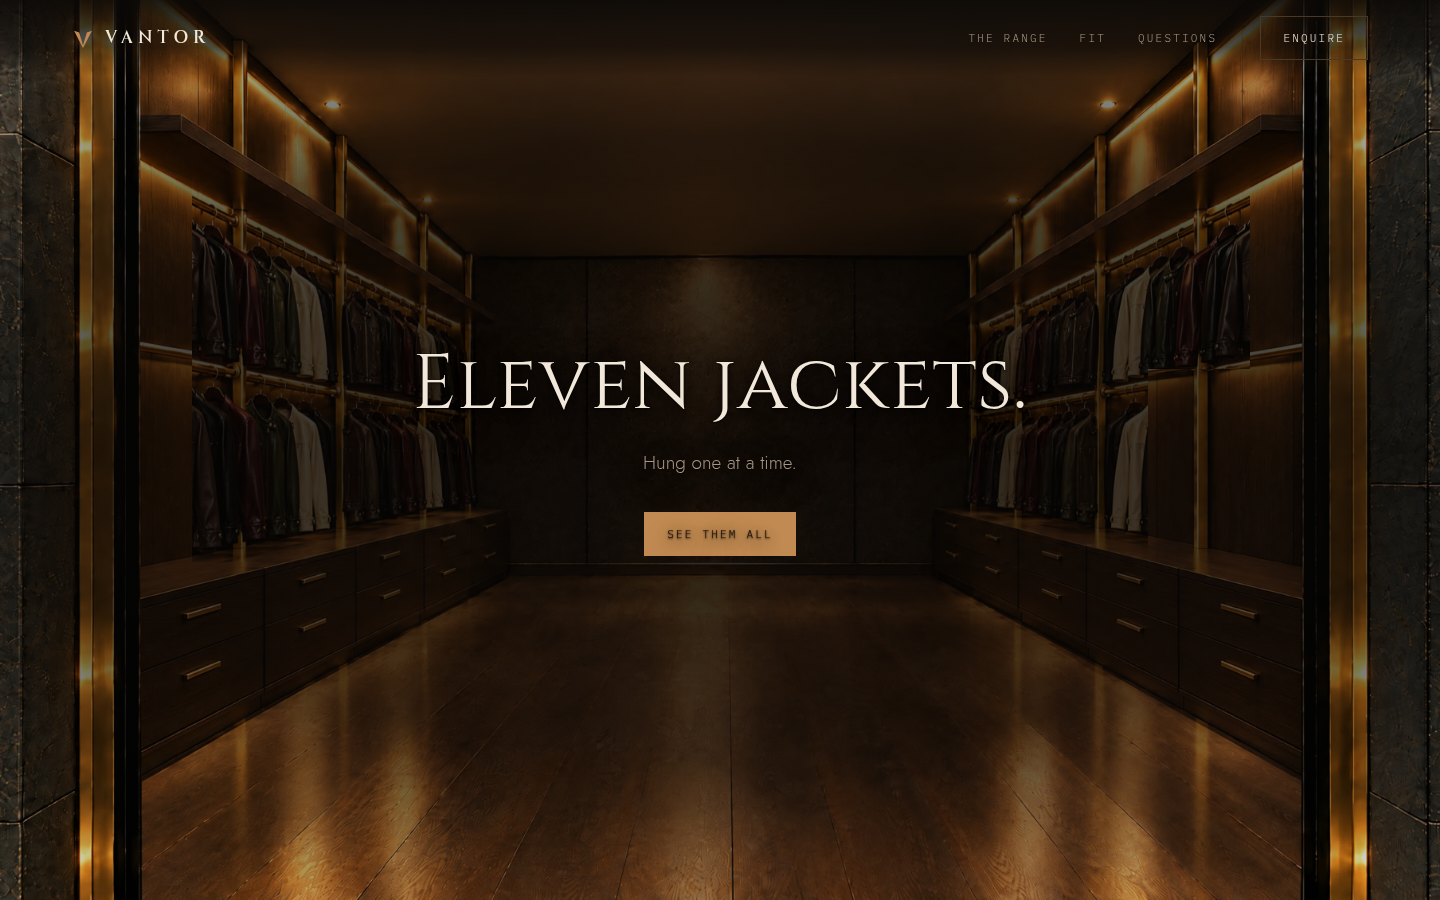
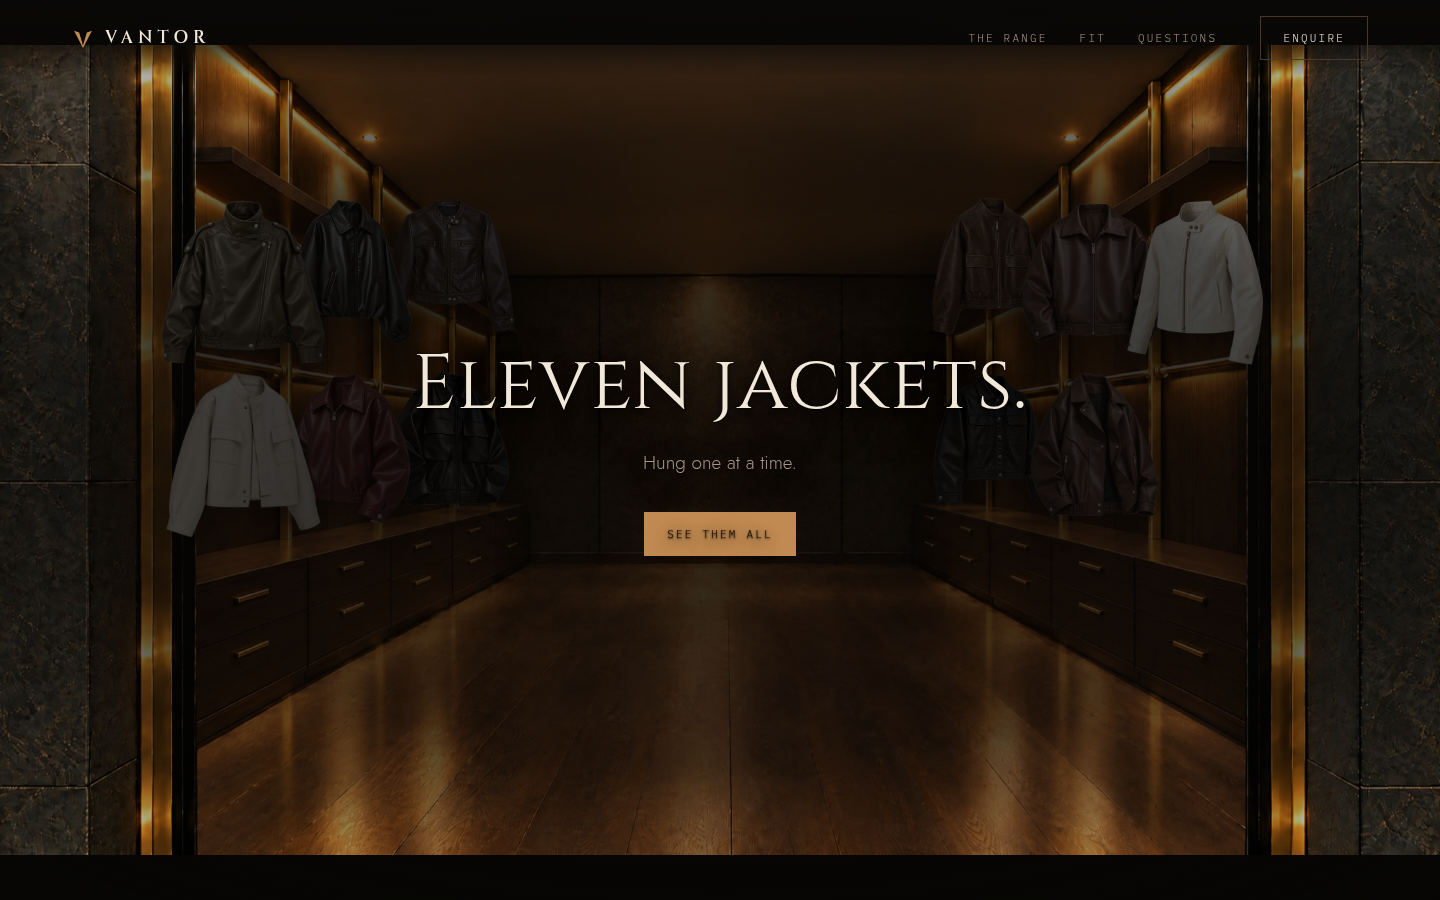
Put the wardrobe on mobile, hang the real jackets, flare each stage
MOBILE, the actual complaint. Two separate faults were hiding the wardrobe on a
phone. The journey was switched off entirely by the five static hero gates, which
existed to stop phones downloading a heavy scroll VIDEO; the hero is now five
images, a fraction of that weight, so only a stated preference for less motion
opts out now. And the room is a wide 16:9 space, which a portrait screen cover
cropped to its middle: the bare far wall, with both rails and every jacket off
the edges. The room now lives in a frame that keeps its own shape, filling a
wide screen and taking the room's proportions on a narrow one, so a phone sees
the whole wardrobe. Held upright it is widened past the edges so it reads at a
proper size, and the copy moves above it so the two stop fighting for the space.

THE JACKETS, actually one by one. Clipping the finished photograph revealed them
in slabs, because the garments in it are packed tight and a rectangle cuts
across several at once. Each jacket is now its own cut out, positioned on the
rail and dropped onto it with an overshoot and a swing that settles. Eleven
separate garments, the owner's own, hung from the far end of both rails forward,
alternating sides.

DRAMA. The room falls from above at scale and the scale settles a beat after the
fall lands, which is what gives it weight. A bronze flare now punctuates each
moment a stage locks in, so the build has beats rather than sliding along.
[…]

diff --git a/site/index.html b/site/index.html
@@ -108,6 +108,9 @@ a{color:inherit}
    HERO
    ============================================================ */
 .hero{position:relative;height:700vh;z-index:1}
+/* a phone scrolls in smaller bites, so the same build wants less distance */
+@media (max-width:720px){ .hero{height:480vh} }
+@media (orientation:landscape) and (pointer:coarse) and (max-height:560px){ .hero{height:420vh} }
 .stage{position:sticky;top:0;height:100vh;overflow:hidden;background:var(--canvas-deep)}
 .poster{position:absolute;inset:0;background-size:cover;background-position:center;
   transition:opacity 1.1s var(--ease-soft)}
@@ -200,11 +203,7 @@ a{color:inherit}
 .static-hero p{margin:20px auto 0;max-width:30ch;color:var(--text-secondary);text-shadow:var(--tshadow)}
 .static-hero .row{margin-top:30px;display:flex;gap:12px;justify-content:center;flex-wrap:wrap}
 
-@media (max-width:720px),
-       (orientation:portrait) and (max-width:1024px),
-       (orientation:portrait) and (pointer:coarse),
-       (orientation:landscape) and (pointer:coarse) and (max-height:560px),
-       (prefers-reduced-motion:reduce){
+@media (prefers-reduced-motion:reduce){
   .hero{height:100vh}
   .band,.ring,.cue,.vsig{display:none}
   .static-hero{display:grid}
@@ -222,41 +221,55 @@ a{color:inherit}
 .street-veil{position:absolute;inset:0;background:radial-gradient(48% 42% at 52% 56%,
   rgba(6,5,4,0) 0%,rgba(6,5,4,.5) 58%,rgba(6,5,4,.96) 100%)}
 
-.act-room{z-index:2;opacity:0;will-change:transform,opacity}
+.act-room{z-index:2;opacity:0;will-change:transform,opacity;display:grid;place-items:center}
 
-/* The five stages are the same room photographed at five points in its build,
-   and every later stage contains everything from the earlier ones. Because the
-   camera never moved, a later stage can be WIPED in over the one below rather
-   than dissolved, and only the new part appears. That is what makes the brass
-   grow out of the floor instead of fading on. The lighting stage is the one
-   exception: light coming up is a change across the whole frame, so that one
-   genuinely is a fade. */
+/* The room keeps its own shape. A phone held upright would otherwise crop this
+   wide room to its middle, which is the one part with nothing on it. */
+/* On a screen wider than the room, the frame fills the stage and crops a
+   little off the top and bottom, which is what you want on a desktop. Once the
+   screen is narrower than the room, it takes the room's own shape instead, so a
+   phone sees the whole wardrobe rather than a crop of the bare far wall. */
+.room-frame{position:relative;width:100%;height:100%;overflow:hidden}
+@media (max-aspect-ratio: 16/10){
+  .room-frame{width:100%;height:auto;aspect-ratio:16/9;max-height:100%}
+}
+/* Held upright, a 16:9 room is only a quarter of the screen. Widen it past the
+   edges so it reads at a proper size, which costs a little off each end of the
+   rails but keeps every jacket on screen, and move the copy off the room so the
+   two stop fighting for the same space. */
+@media (max-aspect-ratio: 3/4){
+  .room-frame{width:132%}
+  .band{place-items:start center;padding-top:13vh}
+  .band .inner{max-width:94vw}
+  #b3{place-items:start center;padding-top:13vh;padding-bottom:0}
+  .cue{bottom:22px}
+}
+
 .stageimg{position:absolute;inset:0;background-size:cover;background-position:center;
   will-change:clip-path,opacity}
-
-/* 0: the room itself, always present underneath */
 .stageimg[data-stage="0"]{opacity:1}
 
-/* 1: the brass posts grow from the floor to the ceiling */
+/* the brass grows out of the floor */
 .stageimg[data-stage="1"]{opacity:1;clip-path:inset(var(--y,100%) 0 0 0)}
-
-/* 2: the rails span outward from the far wall toward you */
+/* the rails span outward from the far wall */
 .stageimg[data-stage="2"]{opacity:1;clip-path:inset(0 var(--x,50%) 0 var(--x,50%))}
-
-/* 3: the lights come up, which is a change across the whole frame, so it fades */
+/* the lights coming up change the whole frame at once, so that one is a fade */
 .stageimg[data-stage="3"]{opacity:var(--o,0)}
 
-/* 4: the jackets, hung one at a time.
-   Each is the finished photograph clipped to that one jacket's place on the
-   rail, and its bottom edge drops from the rail downward, so the garment is
-   lowered onto the rail rather than fading in. They are all the same image
-   file, so the browser decodes it once and every one lines up exactly with the
-   empty room underneath. */
+/* Each jacket is its own cut out, lowered onto the rail. Using the cut outs
+   rather than clipping the finished photograph is what makes them read as
+   eleven separate garments being hung rather than a curtain coming down. */
 .hangers{position:absolute;inset:0;pointer-events:none}
-.hangers b{position:absolute;inset:0;display:block;
-  background:url('assets/room/5-full.jpg') center/cover no-repeat;
-  clip-path:inset(var(--t) var(--r) var(--b) var(--l));
-  will-change:clip-path}
+.hangers .jk{position:absolute;aspect-ratio:1;transform-origin:50% 0;
+  will-change:transform,opacity;opacity:0}
+.hangers .jk img{width:100%;height:100%;object-fit:contain;display:block;
+  filter:drop-shadow(0 14px 22px rgba(0,0,0,.6))}
+
+/* a bronze flare at the moment each stage locks into place */
+.flash{position:absolute;inset:0;pointer-events:none;opacity:0;
+  background:radial-gradient(70% 58% at 50% 46%,
+    rgba(255,214,160,.55) 0%,rgba(224,174,119,.22) 42%,rgba(192,138,82,0) 78%);
+  mix-blend-mode:screen;will-change:opacity}
 
 /* ============================================================
    THE DETAIL VIEW
@@ -325,8 +338,14 @@ a{color:inherit}
   display:block;margin-top:6px}
 body.detail-open{overflow:hidden}
 @media (prefers-reduced-motion:reduce){
-  .act-room{opacity:1}
-  .stageimg{opacity:1}
+  /* the drives never run here, and they write inline styles, so these have to
+     beat them. Reduced motion gets the finished wardrobe rather than an empty
+     room or the street: the end of the story, told at once. */
+  .act-street{opacity:0!important}
+  .act-room{opacity:1!important;transform:none!important}
+  .stageimg{opacity:1!important;clip-path:none!important}
+  .hangers .jk{opacity:1!important;transform:none!important}
+  .flash{opacity:0!important}
   .detail{transition:none}
 }
 
@@ -516,12 +535,19 @@ body.paused *,body.paused *::before,body.paused *::after{animation-play-state:pa
 
     <!-- ACT 2: inside. Five photographs of the same room, cross faded by scroll,
          so the wardrobe assembles itself in place. -->
+    <!-- ACT 2: inside. The room lives in its own 16:9 frame rather than
+         filling the stage, so a portrait phone sees the WHOLE wardrobe instead
+         of a cover crop of the bare far wall. Everything inside positions
+         against that frame, so the jackets land on the rails at any screen shape. -->
     <div class="act act-room" id="room" aria-hidden="true">
-      <div class="stageimg" data-stage="0" style="background-image:url('assets/room/1-empty.jpg')"></div>
-      <div class="stageimg" data-stage="1" style="background-image:url('assets/room/2-posts.jpg')"></div>
-      <div class="stageimg" data-stage="2" style="background-image:url('assets/room/3-rails.jpg')"></div>
-      <div class="stageimg" data-stage="3" style="background-image:url('assets/room/4-fitted.jpg')"></div>
-      <div class="hangers" id="hangers"></div>
+      <div class="room-frame" id="roomFrame">
+        <div class="stageimg" data-stage="0" style="background-image:url('assets/room/1-empty.jpg')"></div>
+        <div class="stageimg" data-stage="1" style="background-image:url('assets/room/2-posts.jpg')"></div>
+        <div class="stageimg" data-stage="2" style="background-image:url('assets/room/3-rails.jpg')"></div>
+        <div class="stageimg" data-stage="3" style="background-image:url('assets/room/4-fitted.jpg')"></div>
+        <div class="hangers" id="hangers"></div>
+        <div class="flash" id="flash" aria-hidden="true"></div>
+      </div>
     </div>
 
     <div class="scrim" aria-hidden="true"></div>
@@ -779,13 +805,12 @@ $('#yr').textContent = new Date().getFullYear();
    These strings must stay character for character identical to
    the media query block in the stylesheet.
    ============================================================ */
-var GATES = [
-  '(max-width: 720px)',
-  '(orientation: portrait) and (max-width: 1024px)',
-  '(orientation: portrait) and (pointer: coarse)',
-  '(orientation: landscape) and (pointer: coarse) and (max-height: 560px)',
-  '(prefers-reduced-motion: reduce)'
-];
+/* The old five gate list existed to stop phones downloading a heavy scroll
+   VIDEO. The hero is now five images inside a frame that keeps its own shape,
+   a fraction of that weight, and the owner wants the wardrobe on mobile. So the
+   journey runs everywhere and the only opt out left is a stated preference for
+   less motion. This string must stay identical to the media query below. */
+var GATES = ['(prefers-reduced-motion: reduce)'];
 
 var SPIN_FRAMES = {"cafe-racer": 6, "vintage-bomber": 5, "flight-bomber": 10, "trucker": 10, "crop-bomber": 5, "bomber": 8, "bomber-oxblood": 6, "moto": 10, "moto-olive": 5, "cafe-racer-bone": 5, "field-bomber": 5};
 
@@ -853,62 +878,86 @@ var STAGE_BUILD = [
   null                  /* 4 replaced by the hangers below */
 ];
 
-/* Where each jacket hangs, measured by differencing the empty room against the
-   finished one: each rail runs 13.4 to 34.5 percent of the width on the left and
-   65.5 to 86.8 on the right, in two rows between 19 and 63 percent of the height.
-   They are hung from the far end of both rails forward, alternating sides, which
-   is the order a person would actually work in. */
+/* Where each jacket hangs. The rails were measured, not guessed, by
+   differencing the empty room against the finished one: each runs 13.4 to 34.5
+   percent of the frame on the left and 65.5 to 86.8 on the right, in two rows
+   between 19 and 63 percent of the height. Nearer the camera is nearer the
+   frame edge, so those jackets are larger. Heights are a share of the frame
+   height; the cut outs are square, so width follows from the 16:9 frame. */
 var JACKETS = (function(){
-  var L = [13.4, 34.5], R = [65.5, 86.8], ROW = [[19.0, 41.0], [41.0, 63.0]];
-  function col(side, i){                    /* i: 0 nearest camera, 2 furthest */
-    var w = (side[1]-side[0]) / 3;
-    return [side[0] + i*w, side[0] + (i+1)*w];
-  }
-  var order = [
-    [L,2,0],[R,0,0],[L,2,1],[R,0,1],
-    [L,1,0],[R,1,0],[L,1,1],[R,1,1],
-    [L,0,0],[R,2,0],[L,0,1]
+  var rows = [18.5, 40.0];                  /* top of the upper and lower rails */
+  var cols = [                              /* centre x, height, per column */
+    { lx:31.1, rx:68.9, h:17.5 },           /* far */
+    { lx:24.0, rx:76.0, h:19.5 },
+    { lx:16.9, rx:83.1, h:21.5 }            /* nearest the camera */
   ];
-  return order.map(function(o){
-    var side = o[0], ci = o[1], ri = o[2];
-    /* the right rail runs the other way, so its far end is its low index */
-    var c = col(side, side === L ? ci : ci);
-    return { l:c[0], r:100-c[1], t:ROW[ri][0], b:100-ROW[ri][1] };
+  var out = [];
+  /* hung from the far end of both rails forward, alternating sides, which is
+     the order somebody actually working the rail would use */
+  var plan = [
+    [0,'l',0],[0,'r',0],[0,'l',1],[0,'r',1],
+    [1,'l',0],[1,'r',0],[1,'l',1],[1,'r',1],
+    [2,'l',0],[2,'r',0],[2,'l',1]
+  ];
+  plan.forEach(function(q, i){
+    var c = cols[q[0]], cx = (q[1] === 'l') ? c.lx : c.rx;
+    var hPct = c.h;
+    var wPct = hPct * 9 / 16;               /* square in a 16:9 frame */
+    out.push({ left:(cx - wPct/2), top:rows[q[2]], h:hPct, w:wPct, slug:RANGE[i][0] });
   });
+  return out;
 })();
 
 var hangEls = [];
 function buildHangers(){
   if(hangEls.length) return;
-  $('#hangers').innerHTML = JACKETS.map(function(){ return '<b></b>'; }).join('');
-  hangEls = $$('#hangers b');
-  for(var i=0;i<hangEls.length;i++){
-    var j = JACKETS[i], e = hangEls[i];
-    e.style.setProperty('--l', j.l.toFixed(2)+'%');
-    e.style.setProperty('--r', j.r.toFixed(2)+'%');
-    e.style.setProperty('--t', j.t.toFixed(2)+'%');
-    e.style.setProperty('--b', '100%');     /* closed: nothing showing */
-  }
+  $('#hangers').innerHTML = JACKETS.map(function(j){
+    return '<div class="jk" style="left:' + j.left.toFixed(2) + '%;top:' + j.top.toFixed(2)
+         + '%;width:' + j.w.toFixed(2) + '%">'
+         + '<img src="assets/spin/' + j.slug + '/01.webp" alt="" loading="lazy">'
+         + '</div>';
+  }).join('');
+  hangEls = $$('#hangers .jk');
 }
 
-var HANG_FROM = 0.74, HANG_TO = 0.99;
-var lastB = [];
+var HANG_FROM = 0.72, HANG_TO = 0.99;
+var lastHang = [];
 function drawHangers(p){
   var n = hangEls.length;
   for(var i=0;i<n;i++){
-    /* each jacket owns its own slice of the beat, with a little overlap so the
-       run reads as continuous rather than as eleven separate events */
     var span = (HANG_TO - HANG_FROM) / n;
     var a0 = HANG_FROM + i*span;
-    var k = smoothstep(p, a0, a0 + span*1.6);
-    var j = JACKETS[i];
-    var bottom = 100 - (j.t + (100 - j.b - j.t) * k);
-    var v = bottom.toFixed(2) + '%';
-    if(lastB[i] !== v){ lastB[i] = v; hangEls[i].style.setProperty('--b', v); }
+    var k = smoothstep(p, a0, a0 + span*1.5);
+    /* it drops in, overshoots a little, and swings to rest on the hook */
+    var swing = Math.sin((1-k) * Math.PI * 2) * (1-k) * 7;
+    var v = 'translateY(' + ((1-k) * -46).toFixed(1) + '%) rotate(' + swing.toFixed(2) + 'deg)';
+    var o = k.toFixed(3);
+    var key = v + o;
+    if(lastHang[i] !== key){
+      lastHang[i] = key;
+      hangEls[i].style.transform = v;
+      hangEls[i].style.opacity = o;
+    }
   }
 }
 
-var lastR = [];var lastR = [];
+/* A bronze flare on the beat each stage locks in, so the build has punctuation
+   rather than just sliding along. */
+var FLARES = [0.23, 0.46, 0.60, 0.72];
+var flashEl = null, lastFlash = '';
+function drawFlash(p){
+  if(!flashEl) flashEl = $('#flash');
+  var best = 0;
+  for(var i=0;i<FLARES.length;i++){
+    var d = Math.abs(p - FLARES[i]);
+    var v = Math.max(0, 1 - d/0.028);
+    if(v > best) best = v;
+  }
+  var o = (best*best*0.85).toFixed(3);
+  if(lastFlash !== o){ lastFlash = o; flashEl.style.opacity = o; }
+}
+
+var lastR = [];var lastR = [];var lastR = [];
 
 /* How far open a sideways wipe is, as the inset from each edge.
    In this one point perspective the centre of the frame is the far END WALL,
@@ -959,6 +1008,7 @@ function drawJourney(p){
     'scale(' + (1 + (1-settle) * 0.18).toFixed(4) + ')', 'rt');
   drawRoom(p);
   drawHangers(p);
+  drawFlash(p);
 
   var cueEl = $('#cue');
   if(cueEl) put(cueEl,'opacity',(1 - smoothstep(p,0.72,0.84)).toFixed(3),'cue');
@@ -1030,7 +1080,7 @@ function enableScrub(){
   window.addEventListener('scroll', onScroll, { passive:true });
   bands.forEach(function(b2){ b2.op = -1; b2.k = -1; });
   lastVal = {};
-  lastR = []; lastB = [];
+  lastR = []; lastHang = []; lastFlash = '';
   unpinFinalStates();
   updateCaptions(heroProgress());
   onScroll();
